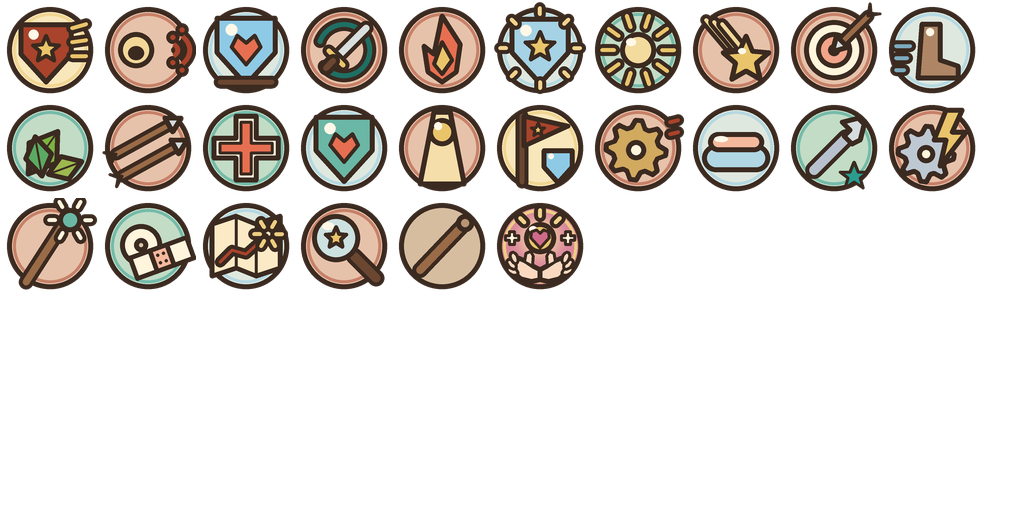
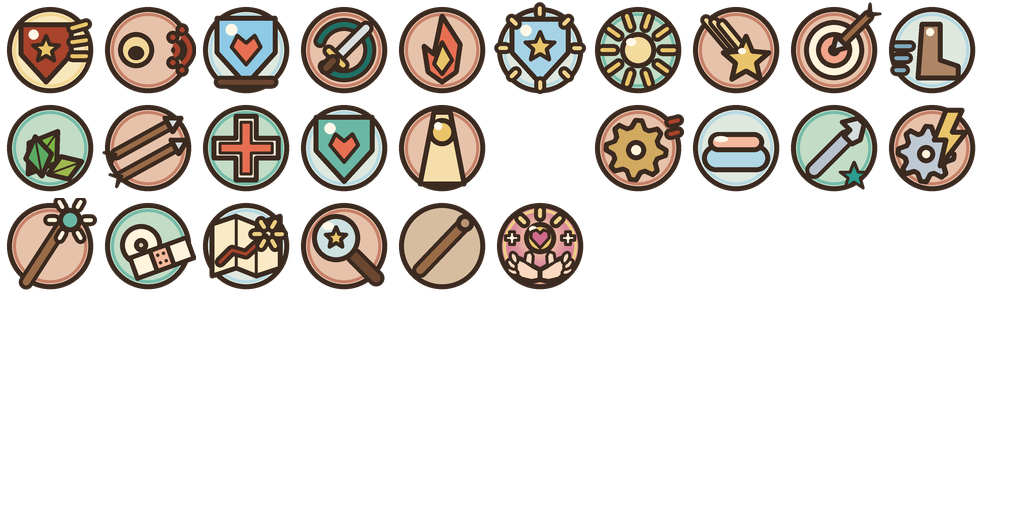
Prepare the 1.0.0 notes and drop the unused cheer frame.
The checklist records what is already on main. Release notes stay the source for the version section, and the packed skill atlas no longer keeps the retired 鼓舞 icon.

Changed region(s): [[0.4688, 0.1875, 0.5938, 0.375]]

diff --git a/docs/release-1.0.0-checklist.md b/docs/release-1.0.0-checklist.md
@@ -1,0 +1,96 @@
+# 1.0.0 发布前检查
+
+核对的提交是 `origin/main` `22931e6a28aaddca73f2d4e598d96074269f16db`。这一份只记录当时仓库里能对上的文件。没有发布，没有打 tag。
+
+## 规格在哪里
+
+仓库里找不到 CLASS_SPEC v1.0.3 的正文。`git ls-files` 没有 `CLASS_SPEC` 或 `class_spec`。代码只在注释里点到它：`src/domain/class-copy.ts`、`src/domain/class-unlock.ts`。下面的六职名单以游戏里的 `src/domain/classes.ts` 为准：战士、法师、游侠、治愈师、发明家、探险家。界面上的治疗职业叫「治愈师」，不是「治疗」。
+
+31 个年级章没有单独的文件名。表在 `src/domain/chapters/chapters_v0.2.json`。这个文件一共 32 条。第 1 条是 `forest_adventure`（森林冒险，grade 为空）。后面 31 条是年级章：三年级 8、四年级 8、五年级 9、六年级 6。本清单的「31 章」指这 31 条。
+
+## 六职业
+
+立绘、行走、技能特效、技能卡、升级结算都已经接到画面上。发明家用编译期常量锁住，数据和画面仍然在。
+
+| 职业 | 立绘 | 行走 | 技能特效 | 技能卡 | 升级结算 |
+| --- | --- | --- | --- | --- | --- |
+| 战士 | `public/assets/classes/v1.0/portrait/cls_portraits@2x.json` 的 `portrait_warrior_side` | 俯视 `cls_warrior_top@2x` 的 walk；侧视 `cls_warrior_side@2x` 的 walk。村子用 `OverworldScene` 的 `ClassTopSprite.play("walk")` | 近战冲到敌人面前。`src/game/art/class-atlas.ts` 的 `DASH_RULES.warrior` 是 `dashToEnemy`，不发弹 | `atlas_skills` 有 `skill_warrior_bash`、`skill_warrior_shout`、`skill_warrior_hold`、`skill_warrior_spin`。定义在 `src/domain/skills.ts` | 和另外五职共用 `src/game/scenes/BattleResultsScene.ts` 的 `starMark`，写出「★N 到 ★N」 |
+| 法师 | 同图集 `portrait_mage_side` | `cls_mage_top@2x`、`cls_mage_side@2x` 的 walk | 火球弹道。`atlas_fx_projectiles.json` 有 `fx_proj_mage_fly_00`–`03` 和 `fx_proj_mage_hit_00`–`02`。`src/game/art/projectile-art.ts` | `skill_mage_spark`、`skill_mage_ward`、`skill_mage_glow`、`skill_mage_star` | 同上 |
+| 游侠 | 同图集 `portrait_ranger_side` | `cls_ranger_top@2x`、`cls_ranger_side@2x` 的 walk | 箭。`fx_proj_ranger_fly_00`–`01`、`fx_proj_ranger_hit_00`–`02` | `skill_ranger_aim`、`skill_ranger_step`、`skill_ranger_herb`、`skill_ranger_volley` | 同上 |
+| 治愈师 | 同图集 `portrait_healer_side` | `cls_healer_top@2x`、`cls_healer_side@2x` 的 walk | 光点。`fx_proj_healer_fly_00`–`02`、`fx_proj_healer_hit_00`–`02` | `skill_healer_beam`、`skill_healer_cure`、`skill_healer_guard`、`skill_healer_light`。旧档里的 `healer-cheer` 在 `src/domain/progress.ts` 换成 `healer-beam` | 同上 |
+| 发明家 | 同图集 `portrait_inventor_side`。锁定卡是 `cls_portraits_locked@2x.json` 的 `portrait_inventor_locked` | `cls_inventor_top@2x`、`cls_inventor_side@2x` 的 walk | 齿轮。`fx_proj_inventor_fly_00`–`03`、`fx_proj_inventor_hit_00`–`02` | `skill_inventor_gear`、`skill_inventor_pad`、`skill_inventor_fix`、`skill_inventor_over` | 同上。玩家在 1.0.0 选不到这个职业，所以正常对局里不会走到这张结算 |
+| 探险家 | 同图集 `portrait_explorer_side` | `cls_explorer_top@2x`、`cls_explorer_side@2x` 的 walk | 近战冲到敌人面前。`DASH_RULES.explorer` 是 `dashToEnemy`，没有弹道帧 | `skill_explorer_staff`、`skill_explorer_bandage`、`skill_explorer_map`、`skill_explorer_find` | 同上 |
+
+发明家的锁：
+
+- `src/domain/class-unlock.ts` 里 `INVENTOR_UNLOCK_ENABLED = false as const`。`isClassSelectable` 在这个常量为 false 时直接返回 false，不读存档。
+- 创建页 `src/game/scenes/CreateScene.ts` 和技能页 `src/game/scenes/SkillsScene.ts` 都画锁定立绘，点击后用 `INVENTOR_LOCK_TIP` 整句，按钮是「好的」。
+- 数值仍在 `src/domain/classes.ts`、`src/domain/skills.ts`、`src/domain/provisional.ts`。
+
+## 31 个年级章
+
+背景由 `src/domain/chapter-scenes.ts` 的 `chapterBackdrop` 选择。小怪由同文件的 `chapterMinion` 选择。Boss 图由 `src/domain/chapter-bosses.ts` 的 `chapterBossAsset` 选择，名字和关卡来自 `chapters_v0.2.json`，开战时 `src/domain/chapter-plan.ts` 的 `stageCombatFor` 把它们接进战斗。
+
+下表的背景和小怪路径都在 `public/assets/chapter/scenes/` 下面。Boss 图在 `public/assets/chapter/` 下面。每一章的四套 Boss 姿势（idle、attack、hit、defeat 的 png 和 json）都在磁盘上。血量不是每章一张表：所有年级章 Boss 都用 `src/domain/provisional.ts` 的 `bossPhaseHpByClass`，按玩家职业取每阶段血量。
+
+| 序 | 章名 | id | 场景背景 | 小怪 | Boss 美术 | Boss 数据 |
+| --- | --- | --- | --- | --- | --- | --- |
+| 2 | 朋友与家人 | `pep_g3_01` | `home/bg_map.webp`、`home/bg_battle.webp` | 抱枕灵 `cushion`，`minions/atlas_monsters_scenes.json` 的 `monster_cushion_idle` / `monster_cushion_hit` | `family_album`：`bosses/family_album/boss_family_album_w_idle@2x.png` 及 attack、hit、defeat | 名「全家福守护者」；id 在 `chapter-bosses.ts`；血量走 `provisional.ts` 的 `bossPhaseHpByClass` |
+| 3 | 动物好朋友 | `pep_g3_02` | `animals/bg_map.webp`、`animals/bg_battle.webp` | 爪爪灵 `pawlet`，`minions/atlas_monsters_scenes.json` 的 `monster_pawlet_idle` / `monster_pawlet_hit` | `tigerkin`：`bosses/tigerkin/boss_tigerkin_w_idle@2x.png` 及 attack、hit、defeat | 名「温柔小虎灵」；id 在 `chapter-bosses.ts`；血量走 `provisional.ts` 的 `bossPhaseHpByClass` |
+| 4 | 花园调色盘 | `pep_g3_03` | `farm/bg_map.webp`、`farm/bg_battle.webp` | 芽芽灵 `sprout`，`minions/atlas_monsters_scenes.json` 的 `monster_sprout_idle` / `monster_sprout_hit` | `duckbrush`：`bosses/duckbrush/boss_duckbrush_w_idle@2x.png` 及 attack、hit、defeat | 名「绿鸭画笔灵」；id 在 `chapter-bosses.ts`；血量走 `provisional.ts` 的 `bossPhaseHpByClass` |
+| 5 | 彩虹数数 | `pep_g3_04` | `town/bg_map.webp`、`town/bg_battle.webp` | 路灯灵 `lampkin`，`minions/atlas_monsters_scenes.json` 的 `monster_lampkin_idle` / `monster_lampkin_hit` | `envelope`：`bosses/envelope/boss_envelope_w_idle@2x.png` 及 attack、hit、defeat | 名「远方来信灵」；id 在 `chapter-bosses.ts`；血量走 `provisional.ts` 的 `bossPhaseHpByClass` |
+| 6 | 认识新朋友 | `pep_g3_05` | `school/bg_map.webp`、`school/bg_battle.webp` | 橡皮灵 `rubkin`，`minions/atlas_monsters_scenes.json` 的 `monster_rubkin_idle` / `monster_rubkin_hit` | `giftbox`：`bosses/giftbox/boss_giftbox_w_idle@2x.png` 及 attack、hit、defeat | 名「礼物盒守护者」；id 在 `chapter-bosses.ts`；血量走 `provisional.ts` 的 `bossPhaseHpByClass` |
+| 7 | 爱学习的我 | `pep_g3_06` | `school/bg_map.webp`、`school/bg_battle.webp` | 橡皮灵 `rubkin`，`minions/atlas_monsters_scenes.json` 的 `monster_rubkin_idle` / `monster_rubkin_hit` | `penciler`：`bosses/penciler/boss_penciler_w_idle@2x.png` 及 attack、hit、defeat | 名「铅笔尺子灵」；id 在 `chapter-bosses.ts`；血量走 `provisional.ts` 的 `bossPhaseHpByClass` |
+| 8 | 好吃又健康 | `pep_g3_07` | `food/bg_map.webp`、`food/bg_battle.webp` | 热气灵 `steam`，`minions/atlas_monsters_scenes.json` 的 `monster_steam_idle` / `monster_steam_hit` | `mealmap`：`bosses/mealmap/boss_mealmap_w_idle@2x.png` 及 attack、hit、defeat | 名「营养餐盘守护者」；id 在 `chapter-bosses.ts`；血量走 `provisional.ts` 的 `bossPhaseHpByClass` |
+| 9 | 玩具与数字 | `pep_g3_08` | `home/bg_map.webp`、`home/bg_battle.webp` | 抱枕灵 `cushion`，`minions/atlas_monsters_scenes.json` 的 `monster_cushion_idle` / `monster_cushion_hit` | `piggybank`：`bosses/piggybank/boss_piggybank_w_idle@2x.png` 及 attack、hit、defeat | 名「存钱罐守护者」；id 在 `chapter-bosses.ts`；血量走 `provisional.ts` 的 `bossPhaseHpByClass` |
+| 10 | 家里好帮手 | `pep_g4_01` | `town/bg_map.webp`、`town/bg_battle.webp` | 路灯灵 `lampkin`，`minions/atlas_monsters_scenes.json` 的 `monster_lampkin_idle` / `monster_lampkin_hit` | `wreath`：`bosses/wreath/boss_wreath_w_idle@2x.png` 及 attack、hit、defeat | 名「善良友谊灵」；id 在 `chapter-bosses.ts`；血量走 `provisional.ts` 的 `bossPhaseHpByClass` |
+| 11 | 我们的社区 | `pep_g4_02` | `town/bg_map.webp`、`town/bg_battle.webp` | 路灯灵 `lampkin`，`minions/atlas_monsters_scenes.json` 的 `monster_lampkin_idle` / `monster_lampkin_hit` | `lookout`：`bosses/lookout/boss_lookout_w_idle@2x.png` 及 attack、hit、defeat | 名「社区守望者」；id 在 `chapter-bosses.ts`；血量走 `provisional.ts` 的 `bossPhaseHpByClass` |
+| 12 | 天气变变变 | `pep_g4_03` | `weather/bg_map.webp`、`weather/bg_battle.webp` | 风叶灵 `leafkin`，`minions/atlas_monsters_scenes_2.json` 的 `monster_leafkin_idle` / `monster_leafkin_hit` | `windsock`：`bosses/windsock/boss_windsock_w_idle@2x.png` 及 attack、hit、defeat | 名「明天风向灵」；id 在 `chapter-bosses.ts`；血量走 `provisional.ts` 的 `bossPhaseHpByClass` |
+| 13 | 四季换衣 | `pep_g4_04` | `weather/bg_map.webp`、`weather/bg_battle.webp` | 风叶灵 `leafkin`，`minions/atlas_monsters_scenes_2.json` 的 `monster_leafkin_idle` / `monster_leafkin_hit` | `desk`：`bosses/desk/boss_desk_w_idle@2x.png` 及 attack、hit、defeat | 名「小课桌守护者」；id 在 `chapter-bosses.ts`；血量走 `provisional.ts` 的 `bossPhaseHpByClass` |
+| 14 | 家规小约定 | `pep_g4_05` | `home/bg_map.webp`、`home/bg_battle.webp` | 抱枕灵 `cushion`，`minions/atlas_monsters_scenes.json` 的 `monster_cushion_idle` / `monster_cushion_hit` | `sleeplamp`：`bosses/sleeplamp/boss_sleeplamp_w_idle@2x.png` 及 attack、hit、defeat | 名「安睡小夜灵」；id 在 `chapter-bosses.ts`；血量走 `provisional.ts` 的 `bossPhaseHpByClass` |
+| 15 | 一天的时间 | `pep_g4_06` | `town/bg_map.webp`、`town/bg_battle.webp` | 路灯灵 `lampkin`，`minions/atlas_monsters_scenes.json` 的 `monster_lampkin_idle` / `monster_lampkin_hit` | `pricetag`：`bosses/pricetag/boss_pricetag_w_idle@2x.png` 及 attack、hit、defeat | 名「价签守护者」；id 在 `chapter-bosses.ts`；血量走 `provisional.ts` 的 `bossPhaseHpByClass` |
+| 16 | 逛店去农场 | `pep_g4_07` | `farm/bg_map.webp`、`farm/bg_battle.webp` | 芽芽灵 `sprout`，`minions/atlas_monsters_scenes.json` 的 `monster_sprout_idle` / `monster_sprout_hit` | `bowlkin`：`bosses/bowlkin/boss_bowlkin_w_idle@2x.png` 及 attack、hit、defeat | 名「小羊碗筷灵」；id 在 `chapter-bosses.ts`；血量走 `provisional.ts` 的 `bossPhaseHpByClass` |
+| 17 | 农场餐桌 | `pep_g4_08` | `farm/bg_map.webp`、`farm/bg_battle.webp` | 芽芽灵 `sprout`，`minions/atlas_monsters_scenes.json` 的 `monster_sprout_idle` / `monster_sprout_hit` | `emptybowl`：`bosses/emptybowl/boss_emptybowl_w_idle@2x.png` 及 attack、hit、defeat | 名「不浪费小灵」；id 在 `chapter-bosses.ts`；血量走 `provisional.ts` 的 `bossPhaseHpByClass` |
+| 18 | 不一样的朋友 | `pep_g5_01` | `school/bg_map.webp`、`school/bg_battle.webp` | 橡皮灵 `rubkin`，`minions/atlas_monsters_scenes.json` 的 `monster_rubkin_idle` / `monster_rubkin_hit` | `smilesign`：`bosses/smilesign/boss_smilesign_w_idle@2x.png` 及 attack、hit、defeat | 名「笑脸心情灵」；id 在 `chapter-bosses.ts`；血量走 `provisional.ts` 的 `bossPhaseHpByClass` |
+| 19 | 忙碌一周 | `pep_g5_02` | `school/bg_map.webp`、`school/bg_battle.webp` | 橡皮灵 `rubkin`，`minions/atlas_monsters_scenes.json` 的 `monster_rubkin_idle` / `monster_rubkin_hit` | `weekcal`：`bosses/weekcal/boss_weekcal_w_idle@2x.png` 及 attack、hit、defeat | 名「一周日历灵」；id 在 `chapter-bosses.ts`；血量走 `provisional.ts` 的 `bossPhaseHpByClass` |
+| 20 | 健康好习惯 | `pep_g5_03` | `food/bg_map.webp`、`food/bg_battle.webp` | 热气灵 `steam`，`minions/atlas_monsters_scenes.json` 的 `monster_steam_idle` / `monster_steam_hit` | `lotusk`：`bosses/lotusk/boss_lotusk_w_idle@2x.png` 及 attack、hit、defeat | 名「荷花湖守护者」；id 在 `chapter-bosses.ts`；血量走 `provisional.ts` 的 `bossPhaseHpByClass` |
+| 21 | 走进大自然 | `pep_g5_04` | `weather/bg_map.webp`、`weather/bg_battle.webp` | 风叶灵 `leafkin`，`minions/atlas_monsters_scenes_2.json` 的 `monster_leafkin_idle` / `monster_leafkin_hit` | `waterfall`：`bosses/waterfall/boss_waterfall_w_idle@2x.png` 及 attack、hit、defeat | 名「风雨瀑布灵」；id 在 `chapter-bosses.ts`；血量走 `provisional.ts` 的 `bossPhaseHpByClass` |
+| 22 | 守规则的城 | `pep_g5_05` | `town/bg_map.webp`、`town/bg_battle.webp` | 路灯灵 `lampkin`，`minions/atlas_monsters_scenes.json` 的 `monster_lampkin_idle` / `monster_lampkin_hit` | `turnsign`：`bosses/turnsign/boss_turnsign_w_idle@2x.png` 及 attack、hit、defeat | 名「左转路标灵」；id 在 `chapter-bosses.ts`；血量走 `provisional.ts` 的 `bossPhaseHpByClass` |
+| 23 | 街区与节日 | `pep_g5_06` | `town/bg_map.webp`、`town/bg_battle.webp` | 路灯灵 `lampkin`，`minions/atlas_monsters_scenes.json` 的 `monster_lampkin_idle` / `monster_lampkin_hit` | `dragonboat`：`bosses/dragonboat/boss_dragonboat_w_idle@2x.png` 及 attack、hit、defeat | 名「假期龙舟灵」；id 在 `chapter-bosses.ts`；血量走 `provisional.ts` 的 `bossPhaseHpByClass` |
+| 24 | 四季与远方 | `pep_g5_07` | `weather/bg_map.webp`、`weather/bg_battle.webp` | 风叶灵 `leafkin`，`minions/atlas_monsters_scenes_2.json` 的 `monster_leafkin_idle` / `monster_leafkin_hit` | `camelbell`：`bosses/camelbell/boss_camelbell_w_idle@2x.png` 及 attack、hit、defeat | 名「沙丘驼铃灵」；id 在 `chapter-bosses.ts`；血量走 `provisional.ts` 的 `bossPhaseHpByClass` |
+| 25 | 家乡与旅行 | `pep_g5_08` | `journey/bg_map_day.webp`、`journey/bg_battle_day.webp` | 行囊灵 `knapsack`，`minions/atlas_monsters_scenes_2.json` 的 `monster_knapsack_idle` / `monster_knapsack_hit` | `bootprint`：`bosses/bootprint/boss_bootprint_w_idle@2x.png` 及 attack、hit、defeat | 名「远足脚印灵」；id 在 `chapter-bosses.ts`；血量走 `provisional.ts` 的 `bossPhaseHpByClass` |
+| 26 | 旅行计划 | `pep_g5_09` | `journey/bg_map_day.webp`、`journey/bg_battle_day.webp` | 行囊灵 `knapsack`，`minions/atlas_monsters_scenes_2.json` 的 `monster_knapsack_idle` / `monster_knapsack_hit` | `travelmap`：`bosses/travelmap/boss_travelmap_w_idle@2x.png` 及 attack、hit、defeat | 名「旅行地图灵」；id 在 `chapter-bosses.ts`；血量走 `provisional.ts` 的 `bossPhaseHpByClass` |
+| 27 | 神奇的地方 | `pep_g6_01` | `journey/bg_map_night.webp`、`journey/bg_battle_night.webp` | 行囊灵 `knapsack`，`minions/atlas_monsters_scenes_2.json` 的 `monster_knapsack_idle` / `monster_knapsack_hit` | `starlight`：`bosses/starlight/boss_starlight_w_idle@2x.png` 及 attack、hit、defeat | 名「倒数星光灵」；id 在 `chapter-bosses.ts`；血量走 `provisional.ts` 的 `bossPhaseHpByClass` |
+| 28 | 赛跑与健康 | `pep_g6_02` | `food/bg_map.webp`、`food/bg_battle.webp` | 热气灵 `steam`，`minions/atlas_monsters_scenes.json` 的 `monster_steam_idle` / `monster_steam_hit` | `sleepmoon`：`bosses/sleepmoon/boss_sleepmoon_w_idle@2x.png` 及 attack、hit、defeat | 名「早睡小月灵」；id 在 `chapter-bosses.ts`；血量走 `provisional.ts` 的 `bossPhaseHpByClass` |
+| 29 | 攒钱去太空 | `pep_g6_03` | `journey/bg_map_day.webp`、`journey/bg_battle_day.webp` | 行囊灵 `knapsack`，`minions/atlas_monsters_scenes_2.json` 的 `monster_knapsack_idle` / `monster_knapsack_hit` | `marble`：`bosses/marble/boss_marble_w_idle@2x.png` 及 attack、hit、defeat | 名「火星弹珠灵」；id 在 `chapter-bosses.ts`；血量走 `provisional.ts` 的 `bossPhaseHpByClass` |
+| 30 | 星空与能源 | `pep_g6_04` | `journey/bg_map_day.webp`、`journey/bg_battle_day.webp` | 行囊灵 `knapsack`，`minions/atlas_monsters_scenes_2.json` 的 `monster_knapsack_idle` / `monster_knapsack_hit` | `warmsun`：`bosses/warmsun/boss_warmsun_w_idle@2x.png` 及 attack、hit、defeat | 名「暖暖能量灵」；id 在 `chapter-bosses.ts`；血量走 `provisional.ts` 的 `bossPhaseHpByClass` |
+| 31 | 比一比 | `pep_g6_05` | `journey/bg_map_day.webp`、`journey/bg_battle_day.webp` | 行囊灵 `knapsack`，`minions/atlas_monsters_scenes_2.json` 的 `monster_knapsack_idle` / `monster_knapsack_hit` | `heightrod`：`bosses/heightrod/boss_heightrod_w_idle@2x.png` 及 attack、hit、defeat | 名「量身高小灵」；id 在 `chapter-bosses.ts`；血量走 `provisional.ts` 的 `bossPhaseHpByClass` |
+| 32 | 上周去哪儿 | `pep_g6_06` | `journey/bg_map_day.webp`、`journey/bg_battle_day.webp` | 行囊灵 `knapsack`，`minions/atlas_monsters_scenes_2.json` 的 `monster_knapsack_idle` / `monster_knapsack_hit` | `oldalbum`：`bosses/oldalbum/boss_oldalbum_w_idle@2x.png` 及 attack、hit、defeat | 名「旧相册守护者」；id 在 `chapter-bosses.ts`；血量走 `provisional.ts` 的 `bossPhaseHpByClass` |
+
+森林冒险不在这 31 章里。它仍用 `public/assets/warm/backgrounds/bg_map_forest_2x.webp`、`bg_forest_battle_2x.webp`，小怪 `monster_inkling_idle`，Boss 是 `public/assets/boss/canopy/v0.1` 的林冠。
+
+## 下一版
+
+期中 Boss、期末 Boss、小学毕业 Boss，以及这些考试对应的头衔，这一版不算缺口。
+
+- `src/domain/provisional.ts` 的 `examBossPhaseHp` 写了期中、期末的每阶段血量。战斗代码不读这张表，只有 `src/domain/class-combat.test.ts` 对过数字。
+- 期末场次 id（`exam_g3_s1_final` 到 `exam_g6_s2_final`）出现在 `src/domain/class-unlock.test.ts` 和存档测试里。没有考试场景、没有考试 Boss 图、没有毕业 Boss `grad_primary`。
+- 已有的称号是森林章的，在 `src/domain/chapters/forest-rewards.json`。那不是期中、期末或毕业头衔。
+
+## 这一支改动的图集
+
+核对时，`skill_healer_cheer` 还在技能图集里，游戏代码已经不画它。`src/` 里剩下的 `healer-cheer` 只用于旧档迁移，不是帧名。这一支删掉了这一帧。像素尺寸仍是 1024×512。
+
+| 文件 | 之前 | 之后 |
+| --- | --- | --- |
[3 lines of base64/hex data omitted]
+
+没有别的资产清单把这三份哈希写死，所以没有改 manifest。
+
+## 缺口
+
+游戏内容上，六职和 31 个年级章没有缺立绘、行走、技能特效、技能卡、场景、小怪或章节 Boss 图。Boss 血量是六职共用的一张表，不是每章各写一个数。
+
+仓库里没有 CLASS_SPEC v1.0.3 文件。README 的「玩法说明」仍写着只能扮演战士、战斗图仍是暂定 v0.1。那一段不在这次改动范围内，所以没有改。

diff --git a/RELEASE_NOTES.md b/RELEASE_NOTES.md
@@ -2,9 +2,15 @@
 
 ## 1.0.0
 
-- 三到六年级一共 31 章，都已经放进游戏里。
+- 可以选战士、法师、游侠、治愈师和探险家（#15、#16）。发明家先锁着。点开锁定的卡片，会说明要等期末大 Boss；这一版还没有期末大 Boss。
+- 技能卡上能看见 ★1、★2、★3。打赢以后，升级的那张卡会写出从 ★几 到 ★几（#15、#16）。
+- 治愈师现在用「光愈」。以前存档里的「鼓舞」会换成同一格的「光愈」（#16）。
+- 游侠每场可以换一次牌。探险家出手前能看到下一题是认意思、听一听，还是拼写（#16）。
+- 三到六年级一共 31 章，都已经放进游戏里。每章有自己的背景、小怪和章节 Boss（#9、#13、#14、#17）。
 - 在「给家长」里可以勾选要学的年级。
 - 每个年级各自按顺序打开：打完这一章，下一章才开。打完森林以后，选中的每个年级会先打开自己的第 1 章。
 - 学堂里可以练拼写，复习时也能拼。每章最后一关的战斗里也会出拼写题。
 - 在「给家长」里可以清除这台电脑上的存档。
+- 可以在这台电脑上安装桌面版。Windows 和 Mac 的安装包没有签名，第一次打开时系统会拦一下。安装说明里写了怎么继续打开（#5、#8）。
 - 桌面版不会自动更新。有新版本时，请到下载页手动下载安装。
+- Windows 和 Mac 的安装包只做了文件级核验（产物存在、文件名、大小），没有做真机启动测试。
